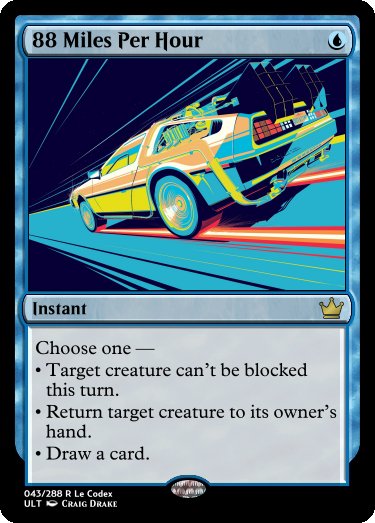
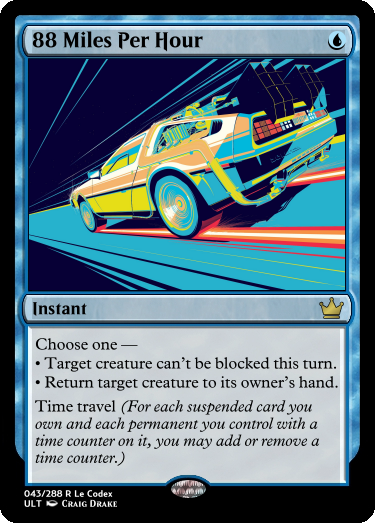
1.4.4

Changed region(s): [[0.088, 0.6424, 0.9093, 0.8872]]

diff --git a/previews/ULT.html b/previews/ULT.html
@@ -211,7 +211,7 @@
 				<div class="container"><img loading="lazy" alt="/sets\ULT-files\img\84_The Birth of Frankenstein.png" id="84_The Birth of Frankenstein" data-flag="@X" onclick="openSidebar('84_The Birth of Frankenstein',false)"></div>
 				<div class="container"><img loading="lazy" alt="/sets\ULT-files\img\123_Class Struggle.png" id="123_Class Struggle" data-flag="@X" onclick="openSidebar('123_Class Struggle',false)"></div>
 				<div class="container"><img loading="lazy" alt="/sets\ULT-files\img\163_Atomic Punch.png" id="163_Atomic Punch" data-flag="@X" onclick="openSidebar('163_Atomic Punch',false)"></div>
-				<div class="container"><img loading="lazy" data-alt_src="/sets\ULT-files\img\4_Bill S. Preston_back.png" alt="/sets\ULT-files\img\4_Bill S. Preston_front.png" id="4_Bill S. Preston" data-flag="@XD" onclick="openSidebar('4_Bill S. Preston',false)"><button class="flip-btn" onclick="imgFlip('4_Bill S. Preston')"></button></div>
+				<div class="container"><img loading="lazy" data-alt_src="/sets\ULT-files\img\4_Bill S Preston_back.png" alt="/sets\ULT-files\img\4_Bill S Preston_front.png" id="4_Bill S Preston" data-flag="@XD" onclick="openSidebar('4_Bill S Preston',false)"><button class="flip-btn" onclick="imgFlip('4_Bill S Preston')"></button></div>
 				<div class="container"><img loading="lazy" alt="/sets\ULT-files\img\45_Andi, Unlikely Smuggler.png" id="45_Andi, Unlikely Smuggler" data-flag="@X" onclick="openSidebar('45_Andi, Unlikely Smuggler',false)"></div>
 				<div class="container"><img loading="lazy" alt="/sets\ULT-files\img\85_Bloody Mess.png" id="85_Bloody Mess" data-flag="@X" onclick="openSidebar('85_Bloody Mess',false)"></div>
 				<div class="container"><img loading="lazy" alt="/sets\ULT-files\img\124_Deal with The Doctor.png" id="124_Deal with The Doctor" data-flag="@X" onclick="openSidebar('124_Deal with The Doctor',false)"></div>
